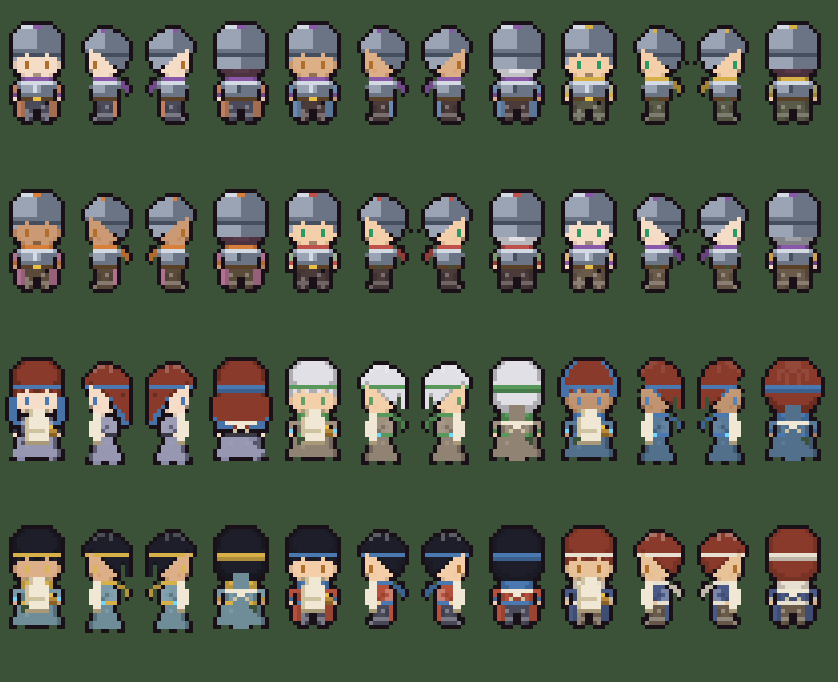
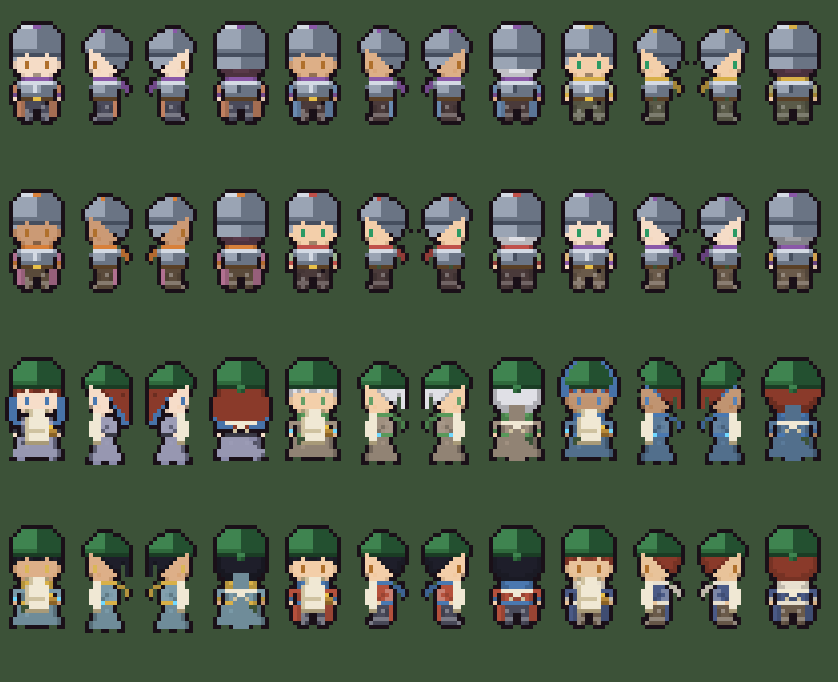
商人のはちまきを、濃い緑の頭巾にする
Claude-Session: https://claude.ai/code/session_01TUFd7hBfF9NNQ4kEakAJkw

diff --git a/src/game/sprite/overworld-sprite.ts b/src/game/sprite/overworld-sprite.ts
@@ -271,7 +271,7 @@ function recolorMob(spec: SpriteSpec, dir: SpriteDir, frame: SpriteFrame): Sprit
         break;
       }
     }
-    applyMerchant(grid, dir, spec, faceTop, tpl.roles.map((r, i) => (r === "hair" ? colors[i] : "")).filter(Boolean));
+    applyMerchant(grid, dir, faceTop, tpl.roles.map((r, i) => (r === "hair" ? colors[i] : "")).filter(Boolean));
   }
   return grid;
 }
@@ -326,23 +326,31 @@ function applyWarrior(grid: SpritePixels, dir: SpriteDir, spec: SpriteSpec, face
   if (dir === "down") { put(7, 23, "#e8c048"); put(8, 23, "#e8c048"); }
 }
 
+const HOOD_LIGHT = "#3f8450";
+const HOOD = "#2f6a3c";
+const HOOD_DARK = "#235030";
+const HOOD_DEEP = "#1a3c24";
 const APRON = "#f0e8d4";
 const APRON_SHADE = "#cfc2a0";
 const APRON_DARK = "#a89a78";
 
-/** 商人らしく: はちまき（髪の生えぎわ）・エプロン・小銭入れ。 */
-function applyMerchant(grid: SpritePixels, dir: SpriteDir, spec: SpriteSpec, faceTop: number, hairColors: string[]): void {
+/** 商人らしく: 濃い緑の頭巾・エプロン・小銭入れ。 */
+function applyMerchant(grid: SpritePixels, dir: SpriteDir, faceTop: number, hairColors: string[]): void {
   const put = (x: number, y: number, c: string): void => {
     if (y >= 0 && y < grid.length && x >= 0 && x < grid[0].length && grid[y][x] !== null) grid[y][x] = c;
   };
   const isHair = (c: string | null): boolean => !!c && hairColors.includes(c);
-  // はちまき: 生えぎわのすぐ上の段（髪の色の画素だけ）を、かざりの色に
-  const bandY = faceTop - 1;
-  for (let y = bandY; y <= bandY; y++) {
-    for (let x = 0; x < grid[0].length; x++) if (isHair(grid[y]?.[x] ?? null)) grid[y][x] = spec.accent;
+  // 頭巾（濃い緑）: 生えぎわより上の髪をおおう。左上が明るく、生えぎわのへりは暗い
+  const w = grid[0].length;
+  for (let y = 0; y < faceTop; y++) {
+    for (let x = 0; x < w; x++) {
+      if (!isHair(grid[y][x])) continue;
+      grid[y][x] = y === faceTop - 1 ? HOOD_DEEP : x < w / 2 && y <= faceTop - 3 ? HOOD_LIGHT : x < w / 2 ? HOOD : HOOD_DARK;
+    }
   }
   if (dir === "up") {
-    for (let x = 0; x < grid[0].length; x++) if (isHair(grid[bandY + 1]?.[x] ?? null)) grid[bandY + 1][x] = shadeColor(spec.accent, -0.2);
+    // 後ろ: 頭巾の結び目
+    put(7, faceTop - 1, HOOD_LIGHT); put(8, faceTop - 1, HOOD_LIGHT); put(7, faceTop, HOOD); put(8, faceTop, HOOD_DARK);
   }
   // エプロン
   if (dir === "down") {

diff --git a/docs/decisions.md b/docs/decisions.md
@@ -426,5 +426,6 @@
 - **モブから、武器・灯り・飾りを外す（人間の依頼）**: 素体にあった、弓・矢筒（ガイド）、杖と髪かざり（ミナ）、ぶら下げた灯り（レト・ユーリ）、はちまき・額や頭の上の飾りを、`export_mob_walkers.py` の `strip` で消した（髪の飾りは髪の色にぬりかえ、持ち物を消したあとの縁取りのかけらも消す）。主要キャラ本人の絵は、そのまま。
 - **男のモブの髪をふさふさに（人間の依頼）**: ユーリの素体は髪がとげとげだったので、モブには使わない。男の人の2種めは、レトの頭（ふさふさ・まるい髪）に、ユーリの服をつなげたもの（`man2`。`export_mob_walkers.py` の `compose`）にした。
 - **モブの左右対称と、女の人の種類を増やす（人間の依頼）**: 持ち物を消したあとの欠け（とくに女の人の左右）を、前向き・後ろ向きの絵の頭から腰まで（上の23段）を、残っているほうの半分を反転して左右対称にして埋めた（`symmetrize`。脚は歩きの動きがあるのでそのまま）。女の人の素体を、ミナの頭にガイドの服（`woman3`）、ガイドの頭にミナの服（`woman4`）で2種増やした（合計6種: 男2・女4）。ガイドの背中の矢筒は、髪と服の色にぬりかえた。
-- **商人（物を売る人）のドット絵（人間の依頼）**: IDに `shop-` `merchant` `vendor` `stall` `shopkeeper` を含むNPCは、モブの素体に、はちまき（生えぎわ）・白いエプロン（前向きは胸から腰、横向きは前、後ろ向きは腰のひも）・腰の小銭入れを足して、商人らしく見せる（`overworld-sprite.ts` の `applyMerchant`）。屋台などの専用の絵（背景つき）は、まだ。
+- **商人（物を売る人）のドット絵（人間の依頼）**: IDに `shop-` `merchant` `vendor` `stall` `shopkeeper` を含むNPCは、モブの素体に、濃い緑の頭巾・白いエプロン（前向きは胸から腰、横向きは前、後ろ向きは腰のひも）・腰の小銭入れを足して、商人らしく見せる（`overworld-sprite.ts` の `applyMerchant`）。屋台などの専用の絵（背景つき）は、まだ。
 - **漁師は男、戦士のモブ（人間の依頼）**: 名前（話し手の呼び名）に男・女がはっきりしている役割（漁師・船乗り・おじいさん・少年は男、おばあさん・主婦・むすめは女）がある町の人は、その性別の素体から選ぶ（`character-specs.ts` の `MALE_ROLE` `FEMALE_ROLE`）。兵士・衛兵・番人・戦士・騎士・門番・傭兵（IDに guard / soldier / warrior / knight を含む人も）は、男の素体に、兜（髪を鉄の色に、てっぺんに飾り）・胸当て・肩当て・ベルトを足した戦士にする（`overworld-sprite.ts` の `applyWarrior`）。商人とはかさねない。鎧の色は鉄色で固定、飾りとマントの色は人ごとにかわる。
+- **商人のはちまきを、濃い緑の頭巾に（人間の依頼）**: 生えぎわより上の髪を、濃い緑の頭巾（左上が明るく、生えぎわのへりは暗い。後ろに結び目）でおおう。
